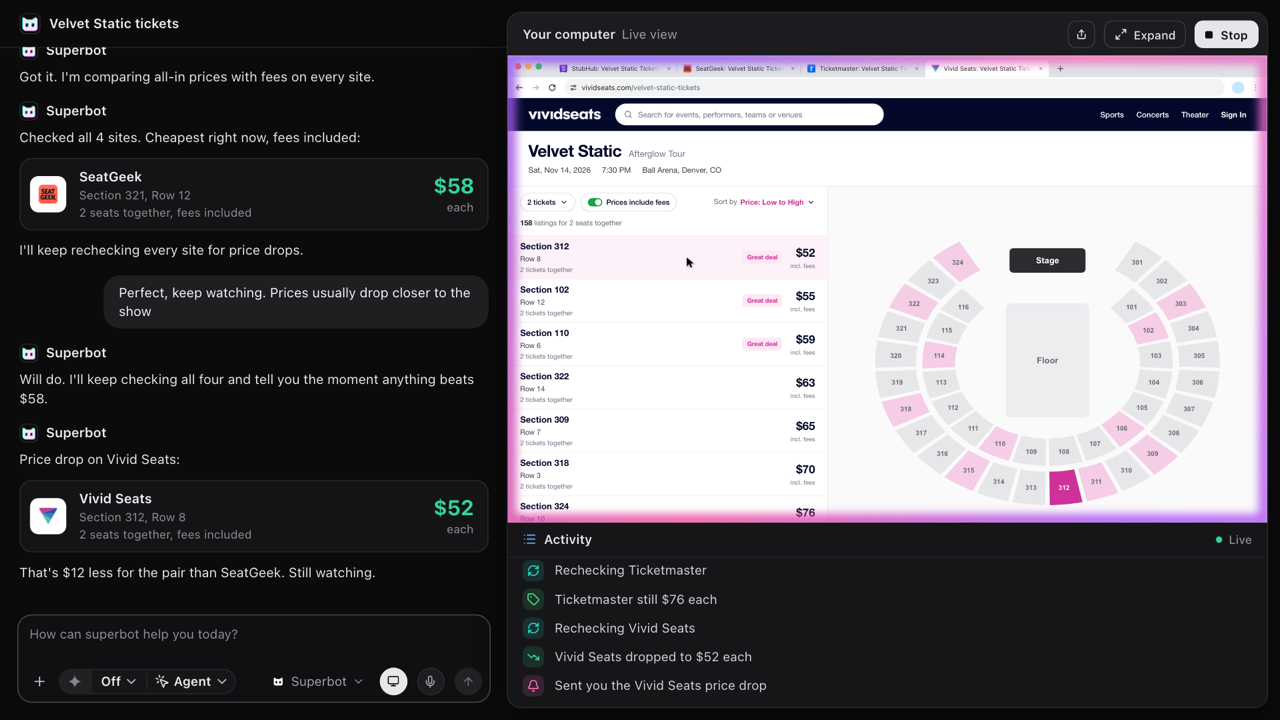
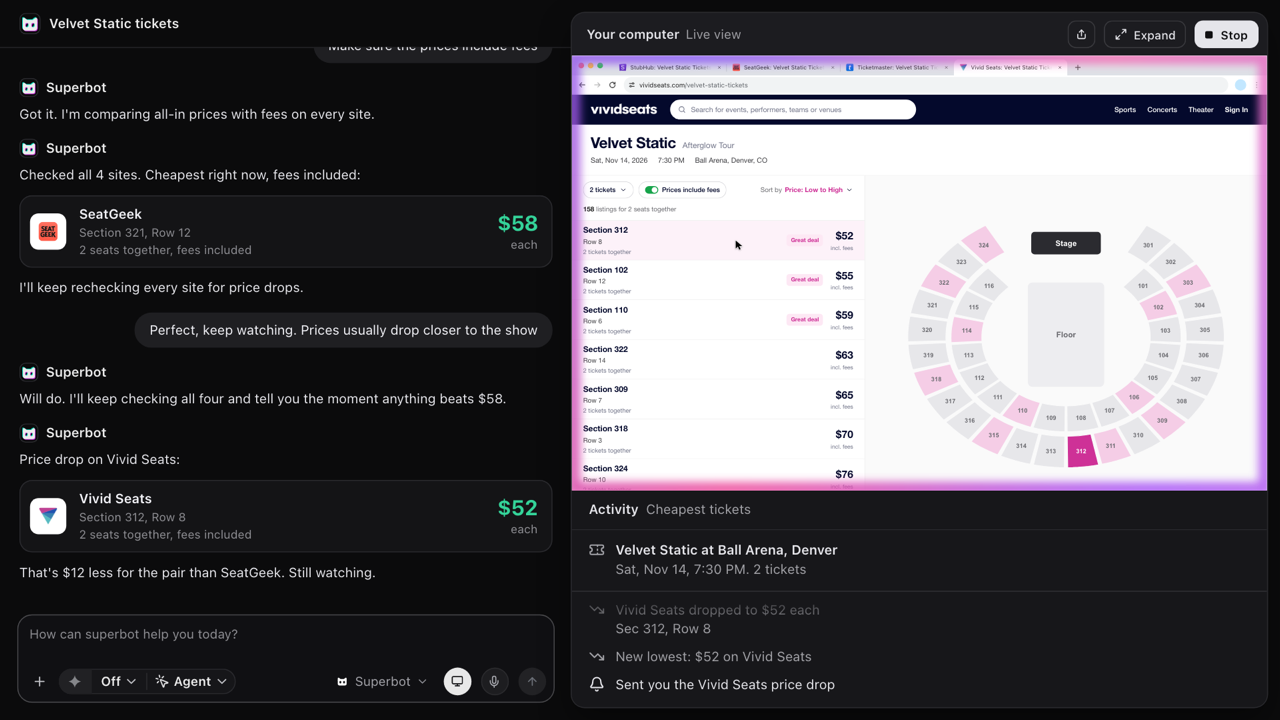
Concert tickets loop (9d36de72): the Activity tab in the tickets scan's style, plain grey glyphs, the task pinned, the newest step in ink, seat details on a second line

diff --git a/animations/superbot-concert-tickets-9d36de72/schedule.9d36de72.js b/animations/superbot-concert-tickets-9d36de72/schedule.9d36de72.js
@@ -1,7 +1,7 @@
 // The spot's script as data: what the user types and sends, what superbot answers, what it does on the screen and the
 // one-line activity it logs for each step. One pass is L seconds; the clock (main.9d36de72.js) loops it. The agent keeps
 // going round the four sites: a first pass that opens each one, then rechecks that reload them and read the new prices.
-import { SITES, cheapest } from './sites.9d36de72.js';
+import { SITES, cheapest } from './sites.9d36de72.js?v=2';
 
 const ASK = 'Find me the cheapest 2 tickets for Velvet Static at Ball Arena on Nov 14';
 const TYPE_CPS = 40; // the user's typing in the composer
@@ -12,19 +12,23 @@ const RECHECK = 4.8; // one recheck: switch to the tab, reload, read, find the c
 export function buildSchedule() {
   const S = { chat: [], typing: [], acts: [], moves: [], tabs: [{ openAt: -1 }], views: [[{ at: -1, v: 'ntp' }], [], [], []], active: [{ at: -1, tab: 0 }],
     omni: [{ at: -1, mode: 'ph' }], menus: [], hovers: [], scrolls: [[], [], [], []], control: 3.0, L: 0 };
-  const act = (at, icon, text) => S.acts.push({ at, icon, text });
+  const act = (at, icon, text, sub) => S.acts.push({ at, icon, text, sub });
   const move = (t0, t1, to) => S.moves.push({ t0, t1, to });
   const view = (i, at, v) => S.views[i].push({ at, ...v });
   const scroll = (i, t0, t1, from, to) => S.scrolls[i].push({ t0, t1, from, to });
   const say = (at, text) => { S.typing.push({ start: at, text, send: at + text.length / TYPE_CPS + 0.18 }); S.chat.push({ at: at + text.length / TYPE_CPS + 0.18, kind: 'user', text }); };
   const bot = (at, text, card, after) => S.chat.push({ at, kind: 'bot', text, card, after });
 
-  // the found price, said the way a recheck reads it against the last pass
-  const priceLine = (i, round) => {
-    const site = SITES[i], c = cheapest(site, round);
-    if (round === 0) return ['tag', `${site.name} lowest: $${c.p} each, Section ${c.s}`];
-    const before = cheapest(site, round - 1).p;
-    return c.p < before ? ['down', `${site.name} dropped to $${c.p} each`] : ['tag', `${site.name} still $${c.p} each`];
+  // the found price, said the way a recheck reads it against the last pass, then a line when it beats every site so far
+  let best = Infinity;
+  const logPrice = (at, i, round) => {
+    const site = SITES[i], c = cheapest(site, round), seat = `Sec ${c.s}, Row ${c.r}`;
+    const before = round === 0 ? null : cheapest(site, round - 1).p;
+    if (before === null) act(at, 'tag', `${site.name}: $${c.p} each`, seat);
+    else if (c.p < before) act(at, 'down', `${site.name} dropped to $${c.p} each`, seat);
+    else act(at, 'tag', `${site.name}: still $${c.p} each`);
+    if (c.p < best) act(at + 0.4, 'down', best === Infinity ? `Lowest so far: $${c.p}` : `New lowest: $${c.p} on ${site.name}`);
+    best = Math.min(best, c.p);
   };
 
   function firstVisit(i, s0) {
@@ -43,22 +47,21 @@ export function buildSchedule() {
     const enter = ty + url.length / URL_CPS + 0.12;
     view(i, enter, { v: 'load' });
     S.omni.push({ at: enter, mode: 'url', tab: i });
+    act(enter, 'globe', `Opening ${site.host}`);
     const shown = enter + 0.45;
     view(i, shown, { v: 'page', round: 0, sorted: false });
-    act(shown + 0.05, `fav:${site.id}`, `Opened ${site.host}`);
     move(shown + 0.1, shown + 0.55, `list:${i}`);
     scroll(i, shown + 0.6, shown + 1.6, 0, 320);
-    act(shown + 0.6, 'scan', `Reading ${site.count} listings for 2 seats together`);
+    act(shown + 0.6, 'scan', `Reading ${site.count} listings`, '2 seats together');
     move(shown + 1.7, shown + 2.15, `sort:${i}`);
     S.menus.push({ tab: i, t0: shown + 2.2, t1: shown + 2.68 });
     move(shown + 2.28, shown + 2.6, `opt:${i}`);
     view(i, shown + 2.68, { v: 'page', round: 0, sorted: true });
     scroll(i, shown + 2.68, shown + 2.68, 0, 0);
-    act(shown + 2.7, 'sort', 'Sorted by price, low to high');
+    act(shown + 2.7, 'sort', 'Sorted by lowest price');
     move(shown + 2.85, shown + 3.3, `row:${i}`);
     S.hovers.push({ tab: i, t0: shown + 3.25 });
-    const [icon, text] = priceLine(i, 0);
-    act(shown + 3.45, icon, text);
+    logPrice(shown + 3.45, i, 0);
   }
 
   function recheck(i, s0, round) {
@@ -76,14 +79,13 @@ export function buildSchedule() {
     scroll(i, s0 + 2.95, s0 + 3.4, 300, 0);
     move(s0 + 3.45, s0 + 3.85, `row:${i}`);
     S.hovers.push({ tab: i, t0: s0 + 3.8 });
-    const [icon, text] = priceLine(i, round);
-    act(s0 + 3.95, icon, text);
+    logPrice(s0 + 3.95, i, round);
   }
 
   // the ask, and superbot taking control
   say(0.5, ASK);
   S.chat.push({ at: 2.8, kind: 'chip', text: 'Taking control of your computer', done: 3.5 });
-  act(S.control + 0.1, 'sb', 'Took control of your computer');
+  act(S.control + 0.1, 'monitor', 'Taking control of your computer');
   bot(3.7, "On it. I'll check StubHub, SeatGeek, Ticketmaster and Vivid Seats for 2 seats together and keep looking for the lowest price.");
 
   // the first pass: open every site
@@ -91,12 +93,12 @@ export function buildSchedule() {
   SITES.forEach((_, i) => firstVisit(i, R1 + i * FIRST));
   say(R1 + FIRST + 0.9, 'Make sure the prices include fees');
   bot(R1 + FIRST + 2.4, "Got it. I'm comparing all-in prices with fees on every site.");
-  act(R1 + FIRST + 2.5, 'fees', 'Comparing all-in prices, fees included');
+  act(R1 + FIRST + 2.5, 'fees', 'Comparing prices with fees included');
   const end1 = R1 + 4 * FIRST;
   const best1 = SITES[1], c1 = cheapest(best1, 0);
   bot(end1 + 0.2, 'Checked all 4 sites. Cheapest right now, fees included:',
     { site: 1, seat: `Section ${c1.s}, Row ${c1.r}`, price: c1.p }, "I'll keep rechecking every site for price drops.");
-  act(end1 + 0.3, 'check', `Best so far: $${c1.p} each on ${best1.name}`);
+  act(end1 + 0.3, 'check', `Cheapest: ${best1.name}, $${c1.p} each`, `Sec ${c1.s}, Row ${c1.r}`);
 
   // the second pass: reload each one
   const R2 = end1 + 1.4;
@@ -115,7 +117,7 @@ export function buildSchedule() {
   recheck(1, R3 + RECHECK, 2);
   say(R3 + 0.6, 'Grab them if they hit $50 each');
   bot(R3 + 2.0, "Deal. The moment 2 seats together hit $50 or less, I'll buy them for you.");
-  act(R3 + 2.1, 'ticket', 'Buy rule set: 2 seats together at $50 or less');
+  act(R3 + 2.1, 'ticket', 'Buy rule: 2 seats together', 'at $50 each or less');
   S.L = R3 + 2 * RECHECK + 0.6;
 
   for (const list of [S.chat, S.acts, S.moves, S.active, S.omni, S.typing]) list.sort((a, b) => (a.at ?? a.t0 ?? a.start) - (b.at ?? b.t0 ?? b.start));

diff --git a/animations/superbot-concert-tickets-9d36de72/style.9d36de72.css b/animations/superbot-concert-tickets-9d36de72/style.9d36de72.css
@@ -16,7 +16,7 @@ body { font-family: var(--ui); color: var(--ink); -webkit-font-smoothing: antial
 body.freeze .hint { display: none; }
 
 /* the app, laid out at 1200x675 and drawn at 1.6x, as the hub spots are */
-.app { position: absolute; left: 0; top: 0; display: grid; grid-template-columns: 476px minmax(0, 1fr); width: 1200px; height: 675px; transform: scale(1.6); transform-origin: 0 0; background: var(--bg); }
+.app { position: absolute; left: 0; top: 0; display: grid; grid-template-columns: 536px minmax(0, 1fr); width: 1200px; height: 675px; transform: scale(1.6); transform-origin: 0 0; background: var(--bg); }
 svg { flex: none; }
 
 /* superbot's mark, static: the live mark's silhouette as a mask, three layers deep (chat.css .qc-t-superbot) */
@@ -102,37 +102,29 @@ svg { flex: none; }
 .bk-stop { gap: 7px; background: var(--ink); font-weight: 600; color: #111113; }
 .bk-stop i { width: 7px; height: 7px; border-radius: 1.5px; background: #111113; }
 
-/* the screen share: its view is the desktop's shape at the stack's width (700 x 919/1470) */
-.cc-view { position: relative; flex: none; height: 437.6px; overflow: hidden; background: #fff; }
+/* the screen share: its view is the desktop's shape at the stack's width (652 x 919/1470) */
+.cc-view { position: relative; flex: none; height: 407.6px; overflow: hidden; background: #fff; }
 
-/* the activity tab: one plain line per step, an icon in its own colour, newest at the foot */
-.ac { flex: 1; min-height: 0; display: flex; flex-direction: column; background: #161619; box-shadow: 0 -1px 0 var(--line); }
-.ac-head { flex: none; display: flex; align-items: center; gap: 8px; height: 32px; padding: 0 14px; box-shadow: 0 1px 0 #232327; }
-.ac-tab { display: inline-flex; align-items: center; gap: 7px; font: 600 12px/1 var(--ui); color: var(--ink); }
-.ac-tab svg { width: 13px; height: 13px; fill: none; stroke: #60a5fa; stroke-width: 2.2; stroke-linecap: round; stroke-linejoin: round; }
-.ac-live { margin-left: auto; display: inline-flex; align-items: center; gap: 6px; font: 500 11px/1 var(--ui); color: var(--muted); }
-.ac-live i { width: 6px; height: 6px; border-radius: 50%; background: #48484e; }
-.ac-live.is-on i { background: #34d399; }
-.ac-live .ac-on, .ac-live.is-on .ac-off { display: none; }
-.ac-live.is-on .ac-on { display: inline; }
-.ac-list { position: relative; flex: 1; min-height: 0; overflow: hidden; }
-.ac-in { position: absolute; left: 0; right: 0; top: 0; padding: 6px 0; }
-.ac-row { display: flex; align-items: center; gap: 10px; height: 27px; padding: 0 14px; white-space: nowrap; font: 12px/1 var(--ui); color: #d1d1d6; opacity: 0; }
-.ac-row .sb-tile { width: 20px; height: 20px; border-radius: 6px; }
-.ac-ic { flex: none; display: grid; place-items: center; width: 20px; height: 20px; border-radius: 6px; }
-.ac-ic svg { width: 12px; height: 12px; fill: none; stroke: currentColor; stroke-width: 2.2; stroke-linecap: round; stroke-linejoin: round; }
-.ac-fav { background: #fff; }
-.ac-fav img { display: block; width: 14px; height: 14px; border-radius: 3px; }
-.ac-scan { color: #38bdf8; background: rgba(56,189,248,.14); }
-.ac-sort { color: #fbbf24; background: rgba(251,191,36,.14); }
-.ac-tag { color: #4ade80; background: rgba(74,222,128,.14); }
-.ac-down { color: #34d399; background: rgba(52,211,153,.14); }
-.ac-fees { color: #a78bfa; background: rgba(167,139,250,.16); }
-.ac-check { color: #4ade80; background: rgba(74,222,128,.14); }
-.ac-bell { color: #f472b6; background: rgba(244,114,182,.15); }
-.ac-refresh { color: #2dd4bf; background: rgba(45,212,191,.14); }
-.ac-ticket { color: #fb923c; background: rgba(251,146,60,.15); }
-.ac-empty { position: absolute; left: 14px; top: 12px; margin: 0; font: 12px/16px var(--ui); color: var(--muted); }
+/* the activity tab (after the concert tickets scan's Activity tab, scan.d35be136.css .act): the title and the task,
+   pinned, then one line per step with a plain lucide glyph in the line's own ink, the newest at the foot in ink and the
+   rest muted; a step may carry a second line. Once steps scroll under it, the list's top edge fades (--fade, set
+   from t). */
+.ac { flex: 1; min-height: 0; display: flex; flex-direction: column; background: #17171a; box-shadow: 0 -1px 0 var(--line); }
+.ac-head { flex: none; display: flex; align-items: center; height: 36px; padding: 0 16px; box-shadow: 0 1px 0 var(--line); }
+.ac-title { white-space: nowrap; font: 600 12.5px/16px var(--ui); color: var(--ink); }
+.ac-title small { margin-left: 7px; font: 400 12.5px/16px var(--ui); color: #a1a1a6; opacity: 0; }
+.ac-body { position: relative; flex: 1; min-height: 0; display: flex; flex-direction: column; }
+.ac-task { flex: none; display: flex; gap: 10px; padding: 11px 16px; box-shadow: 0 1px 0 var(--line); opacity: 0; }
+.ac-task b { display: block; font: 600 12.5px/18px var(--ui); color: var(--ink); }
+.ac-task span span { display: block; font: 400 12.5px/18px var(--ui); color: #a1a1a6; }
+.ac-task .ac-ic { color: #a1a1a6; }
+.ac-list { position: relative; flex: 1; min-height: 0; overflow: hidden; -webkit-mask: linear-gradient(transparent, #000 var(--fade, 0px)); mask: linear-gradient(transparent, #000 var(--fade, 0px)); }
+.ac-in { position: absolute; left: 0; right: 0; top: 0; margin: 0; padding: 8px 0; list-style: none; }
+.ac-row { display: flex; gap: 10px; padding: 4px 16px; font: 400 12.5px/18px var(--ui); color: #a1a1a6; opacity: 0; }
+.ac-sub { display: block; }
+.ac-ic { flex: none; width: 15px; height: 15px; margin-top: 1.5px; }
+.ac-ic svg { display: block; width: 100%; height: 100%; fill: none; stroke: currentColor; stroke-width: 2; stroke-linecap: round; stroke-linejoin: round; }
+.ac-empty { position: absolute; left: 16px; top: 12px; margin: 0; font: 12.5px/18px var(--ui); color: var(--muted); pointer-events: none; }
 
 /* ---------- Chrome on the shared desktop, in the desktop's own px (computer.ba3976b6.css) ---------- */
 .cc-desk { position: absolute; left: 0; top: 0; width: 1470px; height: 919px; overflow: hidden; transform-origin: 0 0; background: #fff; }

diff --git a/animations/superbot-concert-tickets-9d36de72/feed.9d36de72.js b/animations/superbot-concert-tickets-9d36de72/feed.9d36de72.js
@@ -1,8 +1,8 @@
 // The left pane (the chat with its composer) and the activity tab under the live view, both painted from t. Items are
 // laid out once, at their final size (streamed text keeps its unrevealed rest as transparent text), so a pane scrolls by
 // summing the heights of what has arrived, each weighted by its entrance: the newest line slides up into view.
-import { seg, outCubic, caretOn, countAt, lastAt, el, esc, REDUCED } from './lib.9d36de72.js';
-import { SITES, fav } from './sites.9d36de72.js';
+import { seg, outCubic, caretOn, countAt, el, esc, REDUCED } from './lib.9d36de72.js?v=2';
+import { SITES, fav } from './sites.9d36de72.js?v=2';
 
 const STREAM_CPS = 70;
 const TYPE_CPS = 40;
@@ -11,8 +11,10 @@ const ENTER = 0.32; // an item's fade and rise
 export const SB_MARK = '<span class="sb-tile"><i class="sbm sbm-c"></i><i class="sbm sbm-m"></i><i class="sbm sbm-w"></i></span>';
 const OK = '<svg class="cm-ok" viewBox="0 0 24 24"><path d="M5 12.5l4.5 4.5L19 7.5"/></svg>';
 
-// lucide glyphs (lucide.dev, via api.iconify.design), each in its own colour
+// lucide glyphs (lucide.dev, via api.iconify.design), plain line icons in the row's own ink
 const G = {
+  globe: '<circle cx="12" cy="12" r="10"/><path d="M12 2a14.5 14.5 0 0 0 0 20a14.5 14.5 0 0 0 0-20M2 12h20"/>',
+  monitor: '<rect width="20" height="14" x="2" y="3" rx="2"/><path d="M8 21h8m-4-4v4"/>',
   scan: '<path d="M3 7V5a2 2 0 0 1 2-2h2m10 0h2a2 2 0 0 1 2 2v2m0 10v2a2 2 0 0 1-2 2h-2M7 21H5a2 2 0 0 1-2-2v-2"/><circle cx="12" cy="12" r="3"/><path d="m16 16-1.9-1.9"/>',
   sort: '<path d="m3 16 4 4 4-4m-4 4V4m4 0h10M11 8h7m-7 4h4"/>',
   tag: '<path d="M12.586 2.586A2 2 0 0 0 11.172 2H4a2 2 0 0 0-2 2v7.172a2 2 0 0 0 .586 1.414l8.704 8.704a2.426 2.426 0 0 0 3.42 0l6.58-6.58a2.426 2.426 0 0 0 0-3.42z"/><circle cx="7.5" cy="7.5" r=".5" fill="currentColor"/>',
@@ -22,14 +24,10 @@ const G = {
   bell: '<path d="M10.268 21a2 2 0 0 0 3.464 0m-10.47-5.674A1 1 0 0 0 4 17h16a1 1 0 0 0 .74-1.673C19.41 13.956 18 12.499 18 8A6 6 0 0 0 6 8c0 4.499-1.411 5.956-2.738 7.326"/>',
   refresh: '<path d="M3 12a9 9 0 0 1 9-9 9.75 9.75 0 0 1 6.74 2.74L21 8"/><path d="M21 3v5h-5m5 4a9 9 0 0 1-9 9 9.75 9.75 0 0 1-6.74-2.74L3 16"/><path d="M8 16H3v5"/>',
   ticket: '<path d="M2 9a3 3 0 0 1 0 6v2a2 2 0 0 0 2 2h16a2 2 0 0 0 2-2v-2a3 3 0 0 1 0-6V7a2 2 0 0 0-2-2H4a2 2 0 0 0-2 2Zm11-4v2m0 10v2m0-8v2"/>',
-  list: '<path d="M3 5h.01M3 12h.01M3 19h.01M8 5h13M8 12h13M8 19h13"/>',
 };
-const glyph = (name) => `<svg viewBox="0 0 24 24" aria-hidden="true">${G[name]}</svg>`;
-function actIcon(icon) {
-  if (icon === 'sb') return SB_MARK;
-  if (icon.startsWith('fav:')) return `<span class="ac-ic ac-fav"><img src="${fav(icon.slice(4))}" alt="" width="14" height="14"></span>`;
-  return `<span class="ac-ic ac-${icon}">${glyph(icon)}</span>`;
-}
+export const glyph = (name) => `<svg viewBox="0 0 24 24" aria-hidden="true">${G[name]}</svg>`;
+const MUTED = [161, 161, 166], INK = [229, 229, 234]; // #a1a1a6 settled rows, #e5e5ea the newest
+const FADE = 36; // the log's top edge fades over this many px once rows scroll under it
 
 function chatItem(c) {
   if (c.kind === 'user') return `<div class="cm cm-u"><span>${esc(c.text)}</span></div>`;
@@ -55,14 +53,17 @@ export function buildFeed(left, act, S) {
   });
   const actIn = act.querySelector('.ac-in');
   const rows = S.acts.map((a) => {
-    const node = el(`<div class="ac-row">${actIcon(a.icon)}<span class="ac-t">${esc(a.text)}</span></div>`);
+    const sub = a.sub ? `<span class="ac-sub">${esc(a.sub)}</span>` : '';
+    const node = el(`<li class="ac-row"><span class="ac-ic">${glyph(a.icon)}</span><span class="ac-tx">${esc(a.text)}${sub}</span></li>`);
     actIn.appendChild(node);
     return { a, node, h: 0 };
   });
+  act.querySelector('.ac-task .ac-ic').innerHTML = glyph('ticket');
   return {
     feed: left.querySelector('.ch-feed'), feedIn, items, title: left.querySelector('.ch-title'),
     typed: left.querySelector('.rc-typed'), ph: left.querySelector('.rc-hint'), caret: left.querySelector('.rc-caret'), send: left.querySelector('.rc-send'),
-    list: act.querySelector('.ac-list'), actIn, rows, empty: act.querySelector('.ac-empty'), live: act.querySelector('.ac-live'), shownTyped: null,
+    list: act.querySelector('.ac-list'), actIn, rows, empty: act.querySelector('.ac-empty'), task: act.querySelector('.ac-task'),
+    subtitle: act.querySelector('.ac-title small'), shownTyped: null,
   };
 }
 
@@ -124,13 +125,20 @@ export function paintFeed(f, S, t) {
   f.caret.style.opacity = !draft || t < draft.start + draft.text.length / TYPE_CPS || caretOn(t) ? '1' : '0';
   f.send.classList.toggle('is-on', !!text);
 
-  // activity
-  const last = lastAt(S.acts, t);
-  f.empty.style.opacity = last ? '0' : '1';
-  f.live.classList.toggle('is-on', t >= S.control);
-  for (const r of f.rows) reveal(r.node, enter(t, r.a.at));
-  const actRoom = f.list.clientHeight - 12; // .ac-in padding
-  f.actIn.style.transform = `translateY(${(-scrolled(f.rows, t, actRoom)).toFixed(2)}px)`;
+  // activity: the task pins under the header once asked; steps arrive at the foot, the newest in ink, settling to
+  // muted as the next one comes in; once they scroll, the top edge fades
+  const asked = enter(t, firstSend);
+  reveal(f.task, asked);
+  f.subtitle.style.opacity = asked.toFixed(3);
+  f.empty.style.opacity = (1 - asked).toFixed(3);
+  const newest = f.rows.findLastIndex((r) => r.a.at <= t);
+  f.rows.forEach((r, k) => {
+    reveal(r.node, enter(t, r.a.at));
+    const ink = k === newest ? 1 : k === newest - 1 ? 1 - enter(t, f.rows[newest].a.at) : 0;
+    r.node.style.color = `rgb(${MUTED.map((m, c) => Math.round(m + (INK[c] - m) * ink)).join(',')})`;
+  });
+  const actRoom = f.list.clientHeight - 16; // .ac-in padding
+  const shift = scrolled(f.rows, t, actRoom);
+  f.actIn.style.transform = `translateY(${(-shift).toFixed(2)}px)`;
+  f.list.style.setProperty('--fade', `${Math.min(FADE, shift).toFixed(1)}px`);
 }
-
-export const ACT_HEAD_ICON = glyph('list');

diff --git a/animations/superbot-concert-tickets-9d36de72/index.html b/animations/superbot-concert-tickets-9d36de72/index.html
@@ -5,8 +5,8 @@
 <meta name="viewport" content="width=device-width, initial-scale=1">
 <title>superbot: find me the cheapest concert tickets</title>
 <link rel="icon" href="data:,">
-<link rel="stylesheet" href="style.9d36de72.css?v=1">
-<link rel="stylesheet" href="sites.9d36de72.css?v=1">
+<link rel="stylesheet" href="style.9d36de72.css?v=2">
+<link rel="stylesheet" href="sites.9d36de72.css?v=2">
 </head>
 <body>
 <main>
@@ -39,8 +39,12 @@
         </div>
         <div class="cc-view"></div>
         <div class="ac">
-          <div class="ac-head"><span class="ac-tab" data-acticon></span><span class="ac-live"><i></i><span class="ac-off">Idle</span><span class="ac-on">Live</span></span></div>
-          <div class="ac-list"><div class="ac-in"></div><p class="ac-empty">Superbot's steps show up here as it works.</p></div>
+          <div class="ac-head"><b class="ac-title">Activity<small>Cheapest tickets</small></b></div>
+          <div class="ac-body">
+            <div class="ac-task"><span class="ac-ic"></span><span><b>Velvet Static at Ball Arena, Denver</b><span>Sat, Nov 14, 7:30 PM. 2 tickets</span></span></div>
+            <div class="ac-list"><ol class="ac-in"></ol></div>
+            <p class="ac-empty">Superbot's steps show up here as it works.</p>
+          </div>
         </div>
       </div>
     </section>
@@ -49,6 +53,6 @@
 </div>
 <div class="hint" hidden>space pause, R restart, arrows step</div>
 </main>
-<script type="module" src="main.9d36de72.js?v=1"></script>
+<script type="module" src="main.9d36de72.js?v=2"></script>
 </body>
 </html>

diff --git a/animations/superbot-concert-tickets-9d36de72/main.9d36de72.js b/animations/superbot-concert-tickets-9d36de72/main.9d36de72.js
@@ -1,16 +1,15 @@
 // The spot's clock: builds the schedule, the chat and the live view, waits for fonts and images so every measured
 // position is final, then paints one frame per animation frame from t, looping every L seconds. ?t=12.5 freezes a frame
 // (for thumbnails and captures); space pauses, R restarts, the arrow keys step a second.
-import { buildSchedule } from './schedule.9d36de72.js';
-import { buildScreen, fit, measure, paint, primeLists } from './screen.9d36de72.js';
-import { buildFeed, measureFeed, paintFeed, SB_MARK, ACT_HEAD_ICON } from './feed.9d36de72.js';
-import { seg } from './lib.9d36de72.js';
+import { buildSchedule } from './schedule.9d36de72.js?v=2';
+import { buildScreen, fit, measure, paint, primeLists } from './screen.9d36de72.js?v=2';
+import { buildFeed, measureFeed, paintFeed, SB_MARK } from './feed.9d36de72.js?v=2';
+import { seg } from './lib.9d36de72.js?v=2';
 
 const S = buildSchedule();
 const stage = document.getElementById('stage');
 const dip = document.getElementById('dip');
 document.querySelectorAll('[data-sb]').forEach((n) => { n.outerHTML = SB_MARK; });
-document.querySelector('[data-acticon]').innerHTML = `${ACT_HEAD_ICON}Activity`;
 const view = buildScreen(document.querySelector('.cc-view'));
 const feed = buildFeed(document.querySelector('.ch'), document.querySelector('.ac'), S);
 

diff --git a/animations/superbot-concert-tickets-9d36de72/screen.9d36de72.js b/animations/superbot-concert-tickets-9d36de72/screen.9d36de72.js
@@ -2,8 +2,8 @@
 // 6fbc38f8/scenes/tabs-assets/beats/computer.ba3976b6.js). A 1470x919 desktop with Chrome full screen on it at Chrome's
 // own sizes, scaled whole into the view, so tab strip, pages and cursor keep their real proportions. Over it, only the
 // takeover's vignette. Everything is painted from t by paint(), so a frozen frame holds.
-import { seg, lerp, outCubic, inOutCubic, caretOn, countAt, lastAt, REDUCED } from './lib.9d36de72.js';
-import { SITES, fav, pageHTML, rowsHTML, cheapest } from './sites.9d36de72.js';
+import { seg, lerp, outCubic, inOutCubic, caretOn, countAt, lastAt, REDUCED } from './lib.9d36de72.js?v=2';
+import { SITES, fav, pageHTML, rowsHTML, cheapest } from './sites.9d36de72.js?v=2';
 
 export const DESK = { w: 1470, h: 919 };
 const TAB_W = 240, PLUS_GAP = 8, PLUS = 28;

diff --git a/animations/superbot-concert-tickets-9d36de72/sites.9d36de72.js b/animations/superbot-concert-tickets-9d36de72/sites.9d36de72.js
@@ -1,7 +1,7 @@
 // The four ticket sites the agent scans, rebuilt as event pages at Chrome's own size on a 1470px desktop (the page area
 // under the tab strip and toolbar is 1470x837), plus the listings each round reads off them. Wordmarks and favicons are
 // the sites' own files (img/CREDITS.txt); the event itself is invented, so no real artist is shown.
-import { esc } from './lib.9d36de72.js';
+import { esc } from './lib.9d36de72.js?v=2';
 
 export const EVENT = { artist: 'Velvet Static', tour: 'Afterglow Tour', date: 'Sat, Nov 14, 2026', time: '7:30 PM', venue: 'Ball Arena', city: 'Denver, CO' };
 
